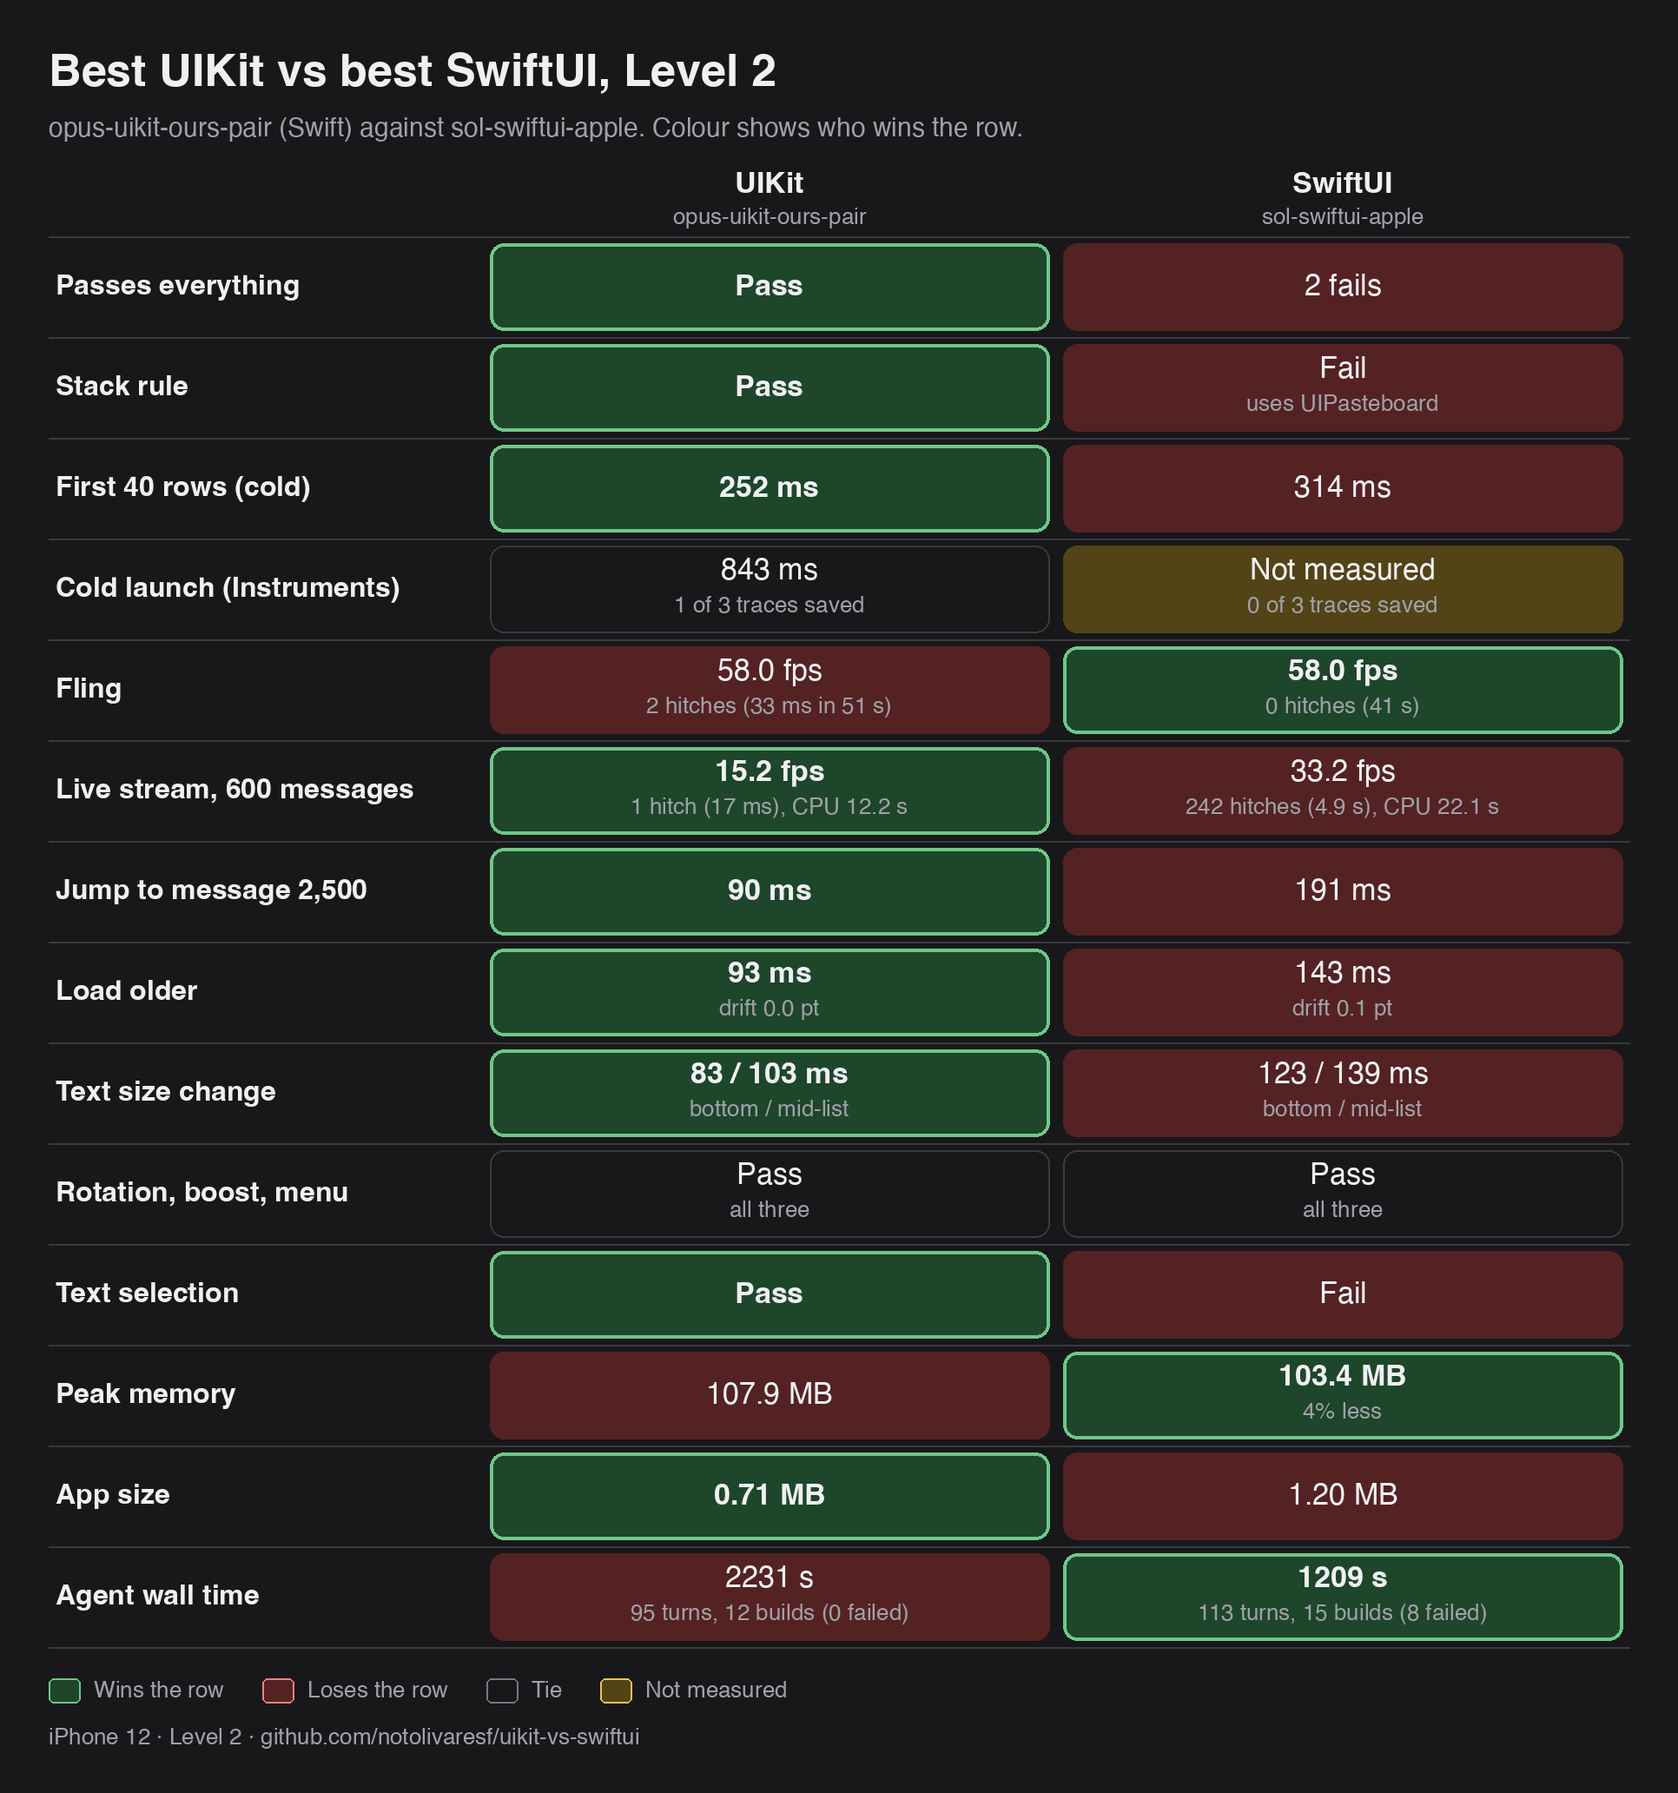
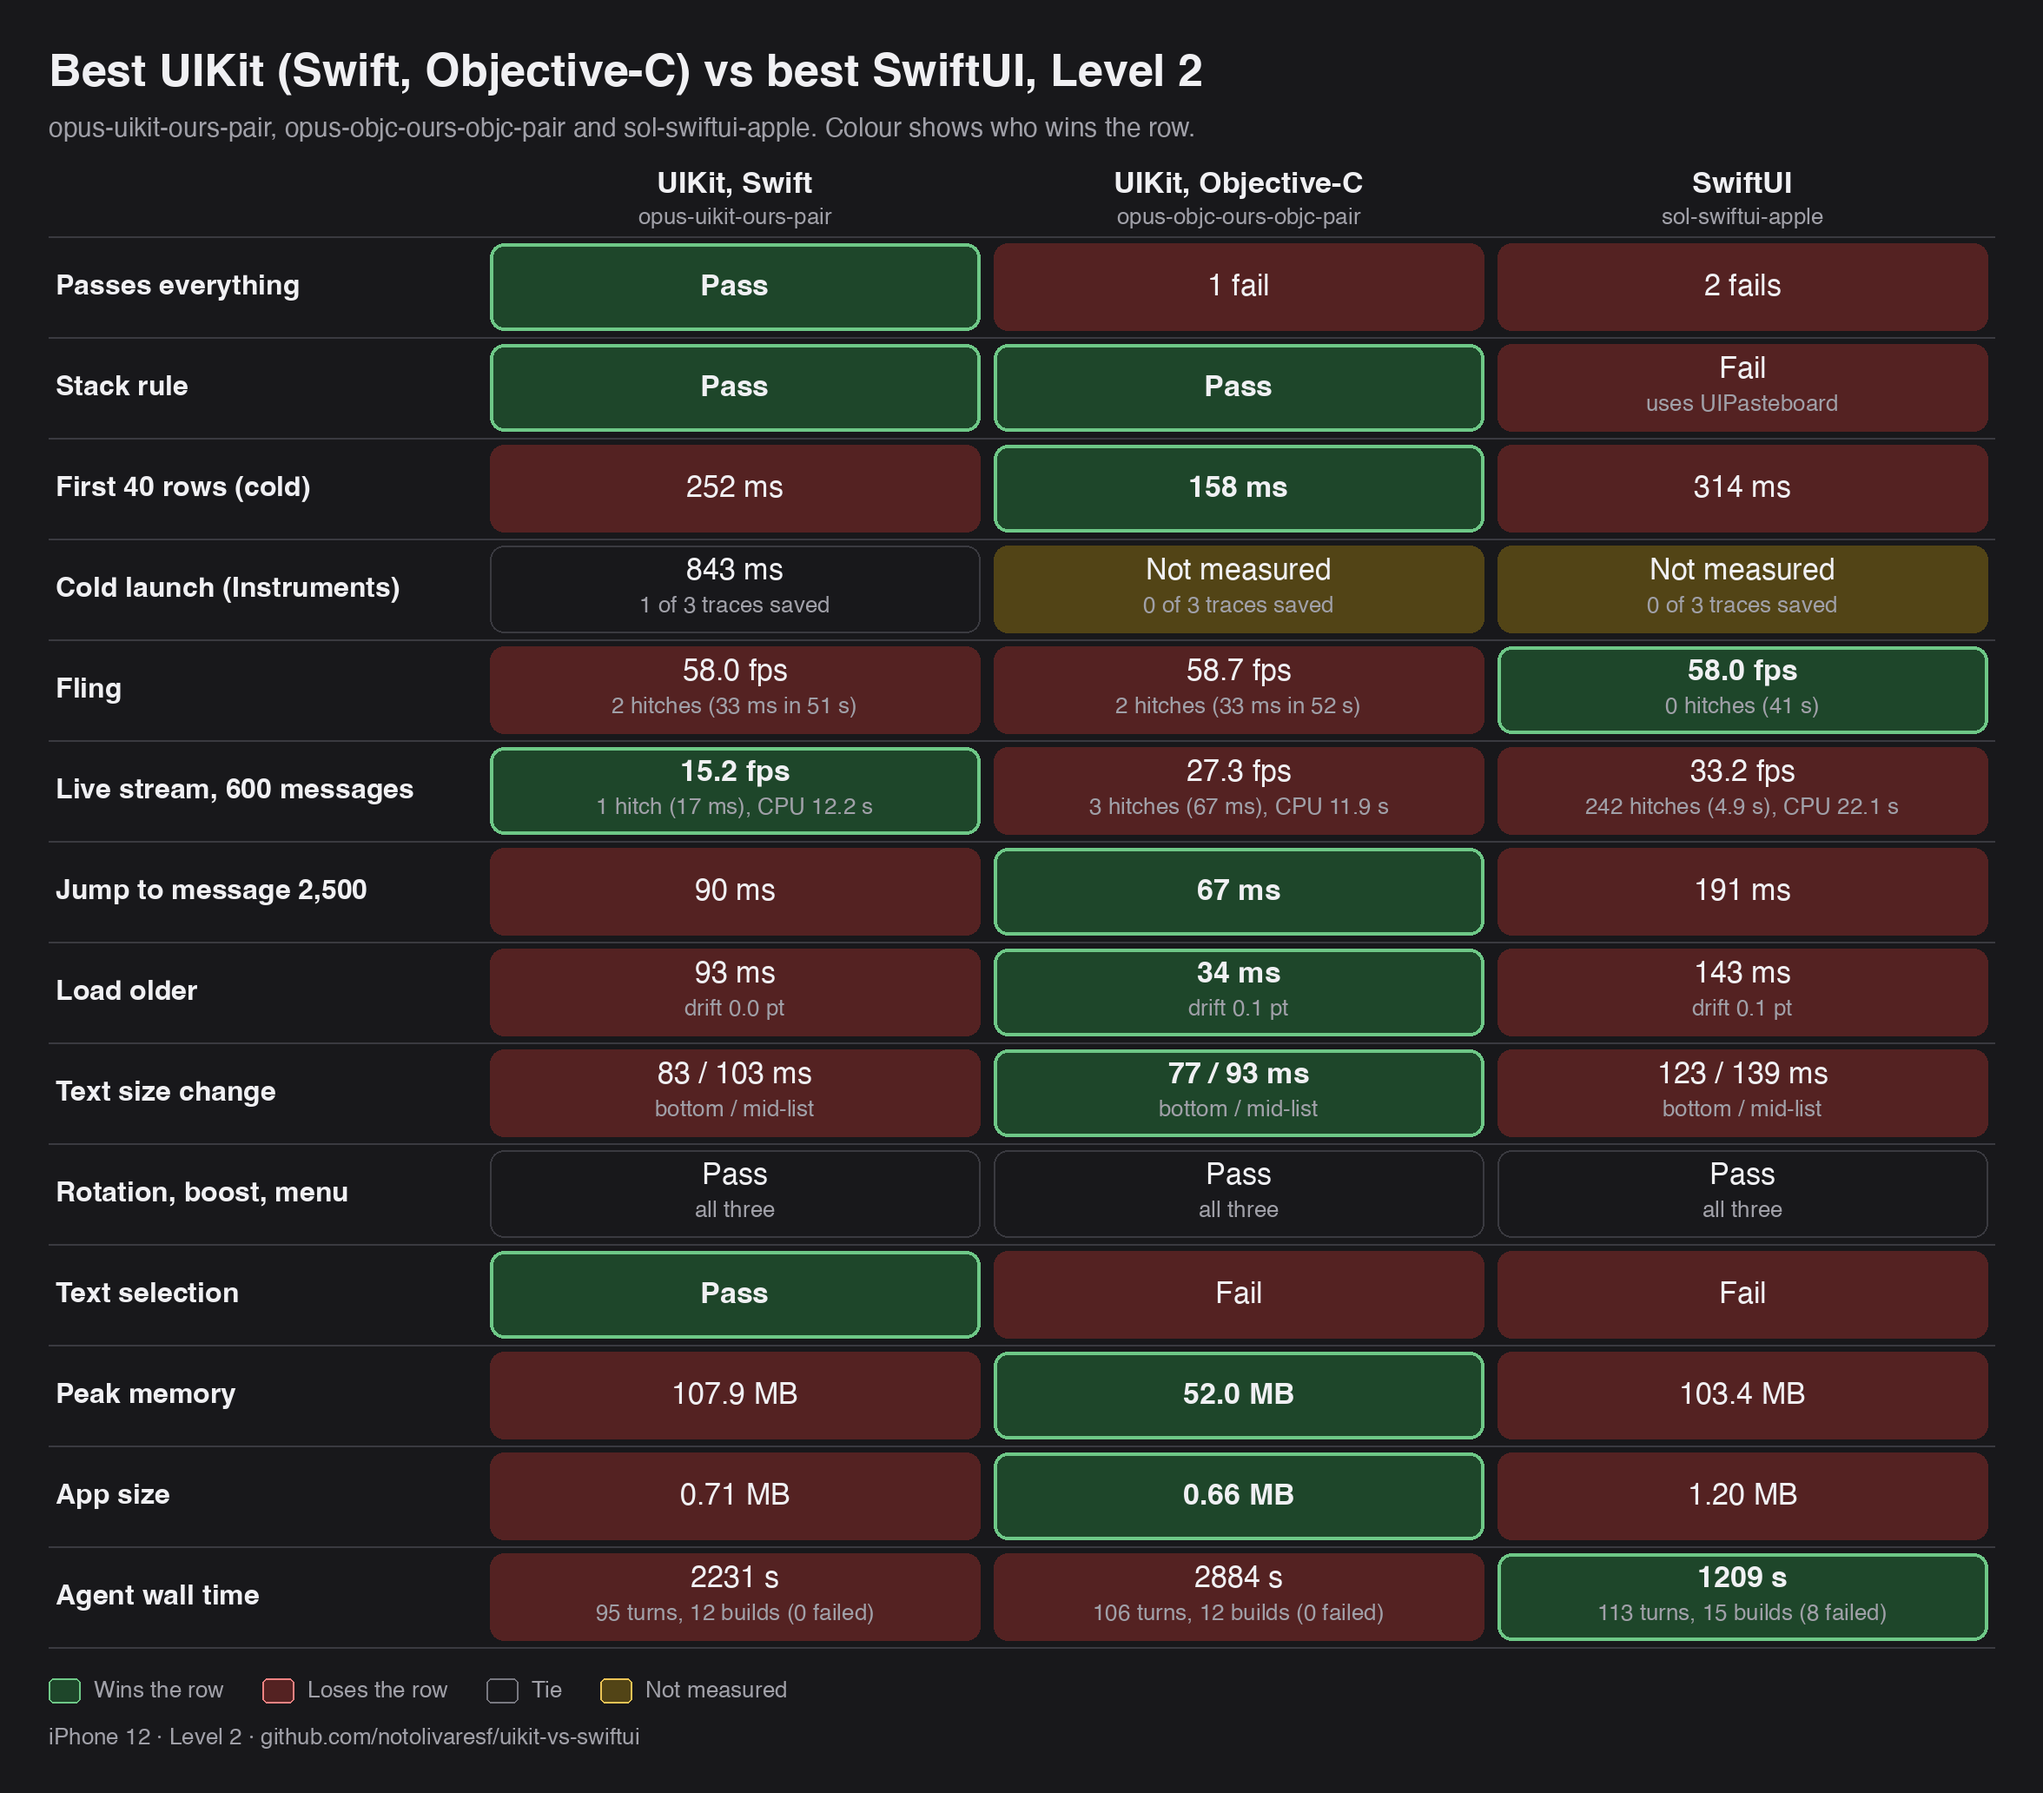
Level 2 best-of: three columns (Swift UIKit, Objective-C UIKit, SwiftUI)

diff --git a/Harness/tools/results_table.py b/Harness/tools/results_table.py
@@ -177,45 +177,51 @@ L2 = dict(title="UIKit vs SwiftUI, Level 2", subtitle="Same Campfire chat room, 
           footer="iPhone 12 · Level 2 · github.com/notolivaresf/uikit-vs-swiftui")
 
 # --- Level 2 best of each stack (docs/results-l2-best.md), rendered only with --l2-best ---
-# UIKit = opus-uikit-ours-pair (index 0 of L2_ROWS), SwiftUI = sol-swiftui-apple (index 4). Numbers come from L2_ROWS;
-# only the rows below that L2_ROWS does not hold are typed here (all from docs/results-l2.md).
-_U, _W = 0, 4
+# Columns: UIKit Swift = opus-uikit-ours-pair (index 0 of L2_ROWS), UIKit Objective-C = opus-objc-ours-objc-pair (2),
+# SwiftUI = sol-swiftui-apple (4). Cell text comes from L2_ROWS; the result per row (W win, L lose, T tie,
+# N not measured) is the best of the three, ties allowed.
+_IDX = (0, 2, 4)
+_ST = {"W": "ok", "L": "bad", "T": "none", "N": "warn"}
 
 
-def _l2(label):
-    return dict(L2_ROWS)[label]
-
-
-def _pair(label, uw, ww):
-    """uw/ww in {"win","lose","tie","close"}: row result for UIKit and SwiftUI. Cells come from L2_ROWS."""
-    c = _l2(label)
-    st = {"win": "ok", "lose": "bad", "tie": "none", "close": "warn"}
+def _row(label, res, subs=None, mains=None):
+    cells = dict(L2_ROWS)[label]
     out = []
-    for i, r in ((_U, uw), (_W, ww)):
-        _, main, sub, _ = c[i]
-        out.append((st[r], main, sub, r == "win"))
+    for k, i in enumerate(_IDX):
+        _, main, sub, _b = cells[i]
+        if mains:
+            main = mains[k]
+        if subs:
+            sub = subs[k]
+        out.append((_ST[res[k]], main, sub, res[k] == "W"))
     return (label, out)
 
 
 L2B_ROWS = [
-    ("Passes everything", [("ok", "Pass", "", True), ("bad", "2 fails", "", False)]),
-    ("Stack rule", [("ok", "Pass", "", True), ("bad", "Fail", "uses UIPasteboard", False)]),
-    _pair("First 40 rows (cold)", "win", "lose"),
-    ("Cold launch (Instruments)", [("none", "843 ms", "1 of 3 traces saved", False), ("warn", "Not measured", "0 of 3 traces saved", False)]),
-    ("Fling", [("bad", "58.0 fps", "2 hitches (33 ms in 51 s)", False), ("ok", "58.0 fps", "0 hitches (41 s)", True)]),
-    ("Live stream, 600 messages", [("ok", "15.2 fps", "1 hitch (17 ms), CPU 12.2 s", True), ("bad", "33.2 fps", "242 hitches (4.9 s), CPU 22.1 s", False)]),
-    _pair("Jump to message 2,500", "win", "lose"),
-    _pair("Load older", "win", "lose"),
-    ("Text size change", [("ok", "83 / 103 ms", "bottom / mid-list", True), ("bad", "123 / 139 ms", "bottom / mid-list", False)]),
-    ("Rotation, boost, menu", [("none", "Pass", "all three", False), ("none", "Pass", "all three", False)]),
-    ("Text selection", [("ok", "Pass", "", True), ("bad", "Fail", "", False)]),
-    ("Peak memory", [("bad", "107.9 MB", "", False), ("ok", "103.4 MB", "4% less", True)]),
-    _pair("App size", "win", "lose"),
-    ("Agent wall time", [("bad", "2231 s", "95 turns, 12 builds (0 failed)", False), ("ok", "1209 s", "113 turns, 15 builds (8 failed)", True)]),
+    ("Passes everything", [("ok", "Pass", "", True), ("bad", "1 fail", "", False), ("bad", "2 fails", "", False)]),
+    _row("Stack rule", "WWL", subs=("", "", "uses UIPasteboard")),
+    _row("First 40 rows (cold)", "LWL"),
+    ("Cold launch (Instruments)", [("none", "843 ms", "1 of 3 traces saved", False), ("warn", "Not measured", "0 of 3 traces saved", False),
+                                   ("warn", "Not measured", "0 of 3 traces saved", False)]),
+    ("Fling", [("bad", "58.0 fps", "2 hitches (33 ms in 51 s)", False), ("bad", "58.7 fps", "2 hitches (33 ms in 52 s)", False),
+               ("ok", "58.0 fps", "0 hitches (41 s)", True)]),
+    ("Live stream, 600 messages", [("ok", "15.2 fps", "1 hitch (17 ms), CPU 12.2 s", True), ("bad", "27.3 fps", "3 hitches (67 ms), CPU 11.9 s", False),
+                                   ("bad", "33.2 fps", "242 hitches (4.9 s), CPU 22.1 s", False)]),
+    _row("Jump to message 2,500", "LWL"),
+    _row("Load older", "LWL"),
+    ("Text size change", [("bad", "83 / 103 ms", "bottom / mid-list", False), ("ok", "77 / 93 ms", "bottom / mid-list", True),
+                          ("bad", "123 / 139 ms", "bottom / mid-list", False)]),
+    ("Rotation, boost, menu", [("none", "Pass", "all three", False)] * 3),
+    ("Text selection", [("ok", "Pass", "", True), ("bad", "Fail", "", False), ("bad", "Fail", "", False)]),
+    _row("Peak memory", "LWL"),
+    _row("App size", "LWL"),
+    ("Agent wall time", [("bad", "2231 s", "95 turns, 12 builds (0 failed)", False), ("bad", "2884 s", "106 turns, 12 builds (0 failed)", False),
+                         ("ok", "1209 s", "113 turns, 15 builds (8 failed)", True)]),
 ]
-L2B = dict(title="Best UIKit vs best SwiftUI, Level 2",
-           subtitle="opus-uikit-ours-pair (Swift) against sol-swiftui-apple. Colour shows who wins the row.",
-           builds=[("UIKit", "opus-uikit-ours-pair"), ("SwiftUI", "sol-swiftui-apple")], rows=L2B_ROWS, col_w=330, file="results-l2-best",
+L2B = dict(title="Best UIKit (Swift, Objective-C) vs best SwiftUI, Level 2",
+           subtitle="opus-uikit-ours-pair, opus-objc-ours-objc-pair and sol-swiftui-apple. Colour shows who wins the row.",
+           builds=[("UIKit, Swift", "opus-uikit-ours-pair"), ("UIKit, Objective-C", "opus-objc-ours-objc-pair"),
+                   ("SwiftUI", "sol-swiftui-apple")], rows=L2B_ROWS, col_w=290, file="results-l2-best",
            groups=None, row_h=58,
            legend=[("ok", "Wins the row"), ("bad", "Loses the row"), ("none", "Tie"), ("warn", "Not measured")],
            footer="iPhone 12 · Level 2 · github.com/notolivaresf/uikit-vs-swiftui")

diff --git a/docs/results-l2-best.md b/docs/results-l2-best.md
@@ -1,40 +1,40 @@
-# Level 2: best UIKit against best SwiftUI
+# Level 2: best Swift UIKit, best Objective-C UIKit and best SwiftUI
 
-Fernando asked (20 Oct) for the best UIKit build against the best SwiftUI build of Level 2. Every number is from `docs/results-l2.md` (round 1, iPhone 12). Swift and Objective-C UIKit builds were both candidates.
+Fernando asked (20 Oct) for the best UIKit build against the best SwiftUI build of Level 2, then for UIKit split into Swift and Objective-C. Every number is from `docs/results-l2.md` (round 1, iPhone 12). Each pick is the build that passes the most behaviours, then wins the performance tie-breakers (fling and stream hitches and fps, memory, launch, agent cost).
 
-![Best of UIKit vs best of SwiftUI, Level 2](images/results-l2-best.png)
+![Best Swift UIKit, Objective-C UIKit and SwiftUI, Level 2](images/results-l2-best.png)
 
 (Dark version: `images/results-l2-best-dark.png`; rendered with `python3 Harness/tools/results_table.py --l2-best`.)
 
 ## The picks
 
-- **Best UIKit: opus-uikit-ours-pair (Swift).** It is the only one of the six Level 2 builds that passes every behaviour and the stack rule, so nothing else is needed to break the tie.
-- **Best SwiftUI: sol-swiftui-apple.** Both SwiftUI builds fail the same two behaviours (stack rule, text selection), so the tie-breakers decide: it has 0 fling hitches against 5, 242 stream hitches against 425, half the peak memory (103.4 against 215.4 MB) and about a quarter of the agent time (1209 s against 4301 s); cold launch was not measured for either.
-- Objective-C note: the best Objective-C build, opus-objc-ours-objc-pair, is close on speed (158 ms first content, 34 ms load older, 52.0 MB) but fails text selection (1 fail against 0), so it ranks second among UIKit.
+- **Best Swift UIKit: opus-uikit-ours-pair.** It passes every behaviour and the stack rule, the only one of the six Level 2 builds that does.
+- **Best Objective-C UIKit: opus-objc-ours-objc-pair.** It and sol-objc-ours-objc-pair both miss only text selection, and Opus has the smoother stream (3 hitches and 11.9 s of CPU against 9 and 18.7 s) and wins first content, jump, load older and app size, while Sol wins memory (35.0 against 52.0 MB), launch and agent time, so Sol is close.
+- **Best SwiftUI: sol-swiftui-apple.** Both SwiftUI builds fail the same two behaviours (stack rule, text selection), so the tie-breakers decide: 0 fling hitches against 5, 242 stream hitches against 425, 103.4 MB against 215.4 MB, and 1209 s of agent time against 4301 s; cold launch was not measured for either.
 
 ## Head to head
 
-| Row | UIKit: opus-uikit-ours-pair | SwiftUI: sol-swiftui-apple | Winner |
-|---|---|---|---|
-| Passes everything | pass | 2 fails (stack rule, text selection) | UIKit |
-| Stack rule | pass | fail: imports UIKit's UIPasteboard | UIKit |
-| First content (time to 40 rows) | 252 ms cold, 256 ms repeated | 314 ms cold, 408 ms repeated | UIKit |
-| Cold launch (Instruments) | 843 ms (1 of 3 samples) | not measured: 0 of 3 traces saved before the 300 s cap | none |
-| Fling | 58.0 fps, 2 hitches (33 ms in 51 s) | 58.0 fps, 0 hitches (41 s) | SwiftUI |
-| Jump to message 2500 | 90 ms, drift 0.0 pt | 191 ms, drift 0.1 pt | UIKit |
-| Load older keeps place | 93 ms, drift 0.0 pt | 143 ms, drift 0.1 pt | UIKit |
-| Live stream, 600 messages | pass, pinned; 15.2 fps, 1 hitch (17 ms); CPU 12.2 s | pass, pinned; 33.2 fps, 242 hitches (4.9 s); CPU 22.1 s | UIKit (hitches, CPU) |
-| Text size change | 83 ms bottom, 103 ms mid-list | 123 / 139 ms | UIKit |
-| Rotation, boost burst, context menu | pass | pass | tie |
-| Text selection | pass (also long press) | fail | UIKit |
-| Peak memory | 107.9 MB | 103.4 MB | SwiftUI (4% less) |
-| App size | 0.71 MB | 1.20 MB | UIKit |
-| Agent wall time / turns / builds (failed) | 2231 s / 95 / 12 (0) | 1209 s / 113 / 15 (8) | SwiftUI on time; UIKit on turns and builds |
+| Row | UIKit, Swift: opus-uikit-ours-pair | UIKit, Objective-C: opus-objc-ours-objc-pair | SwiftUI: sol-swiftui-apple | Winner |
+|---|---|---|---|---|
+| Passes everything | pass | 1 fail (text selection) | 2 fails (stack rule, text selection) | Swift UIKit |
+| Stack rule | pass | pass | fail: imports UIKit's UIPasteboard | Swift and Objective-C UIKit |
+| First content (time to 40 rows) | 252 ms cold | 158 ms cold | 314 ms cold | Objective-C UIKit |
+| Cold launch (Instruments) | 843 ms (1 of 3 samples) | not measured: 0 of 3 traces saved before the 300 s cap | not measured: same | none |
+| Fling | 58.0 fps, 2 hitches (33 ms in 51 s) | 58.7 fps, 2 hitches (33 ms in 52 s) | 58.0 fps, 0 hitches (41 s) | SwiftUI (hitches) |
+| Jump to message 2500 | 90 ms | 67 ms | 191 ms | Objective-C UIKit |
+| Load older keeps place | 93 ms | 34 ms | 143 ms | Objective-C UIKit |
+| Live stream, 600 messages | 15.2 fps, 1 hitch (17 ms), CPU 12.2 s | 27.3 fps, 3 hitches (67 ms), CPU 11.9 s | 33.2 fps, 242 hitches (4.9 s), CPU 22.1 s | Swift UIKit (hitches) |
+| Text size change | 83 / 103 ms | 77 / 93 ms | 123 / 139 ms | Objective-C UIKit |
+| Rotation, boost burst, context menu | pass | pass | pass | tie |
+| Text selection | pass | fail | fail | Swift UIKit |
+| Peak memory | 107.9 MB | 52.0 MB | 103.4 MB | Objective-C UIKit |
+| App size | 0.71 MB | 0.66 MB | 1.20 MB | Objective-C UIKit |
+| Agent wall time / turns / builds (failed) | 2231 s / 95 / 12 (0) | 2884 s / 106 / 12 (0) | 1209 s / 113 / 15 (8) | SwiftUI on time |
 
 ## Takeaways
 
-- UIKit wins 9 of 14 rows; SwiftUI wins 3 (fling hitches, peak memory by 4%, agent time); one is a tie and one is not measured.
-- The clearest gap is correctness: the best UIKit build passes everything, while even the best SwiftUI build still uses UIKit's UIPasteboard for Copy and cannot select text.
-- The stream is the other big gap: SwiftUI shows more frames per second (33.2 against 15.2) but drops 242 frames and burns 22.1 s of CPU against 12.2 s; UIKit redraws only when a message lands, so read fps together with hitches.
-- UIKit is faster in every timed action (first content, jump, load older, text size), by 36 to 101 ms.
-- SwiftUI was cheaper for the agent in wall time (1209 s against 2231 s) but needed more turns and 8 failed builds against none, so the saving is not clean.
+- Of 14 rows, Objective-C UIKit wins 7 (one shared), Swift UIKit 4 (one shared), SwiftUI 2; one row is a tie and one is not measured.
+- Only the Swift UIKit build passes everything; the Objective-C build misses text selection, and the SwiftUI build also fails the stack rule (it uses UIKit's UIPasteboard for Copy).
+- Objective-C UIKit is the quickest and leanest: first content 158 ms, load older 34 ms, 52.0 MB against 107.9 MB (Swift) and 103.4 MB (SwiftUI).
+- The stream is where SwiftUI is clearly behind: 242 dropped frames and 22.1 s of CPU against 1 to 3 hitches and about 12 s for both UIKit builds. Its higher fps (33.2) is not smoothness; read fps together with hitches.
+- SwiftUI wins fling hitches (0 against 2 for both UIKit builds, though the Objective-C build has the highest fling fps, 58.7) and agent time (1209 s), but needed 8 failed builds against none for both UIKit builds.
